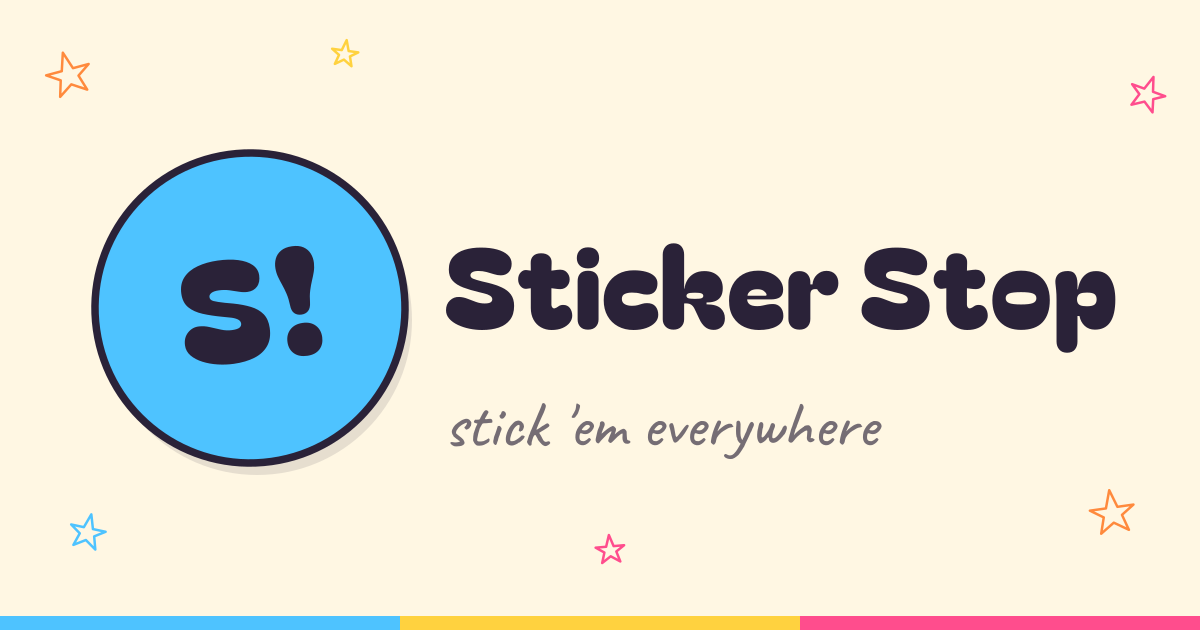
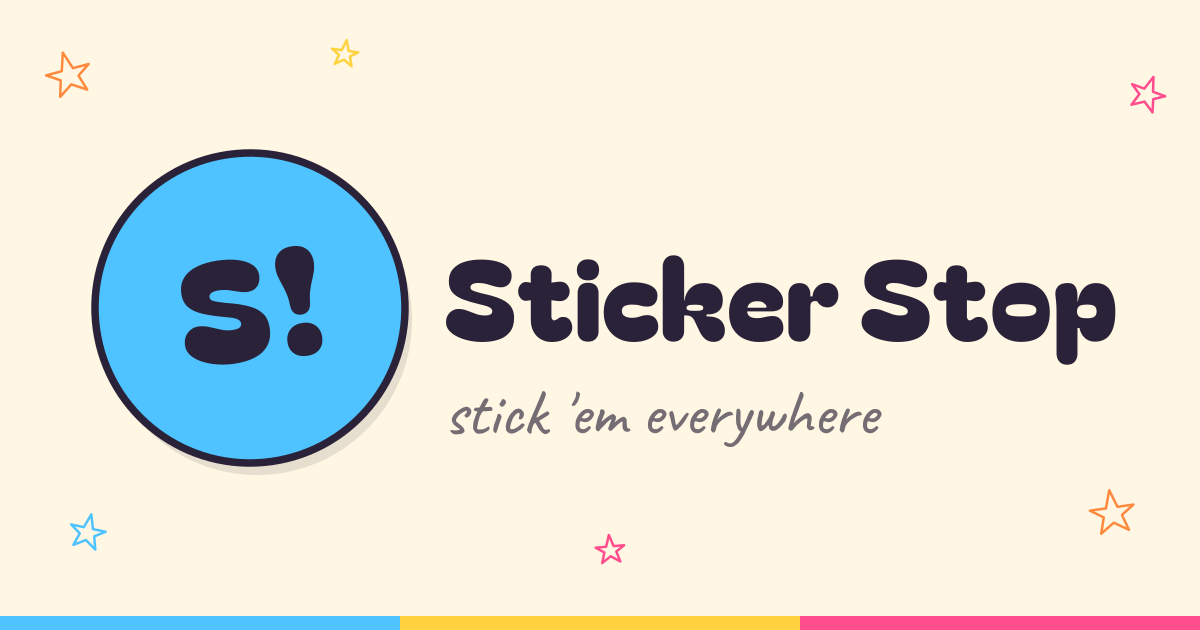
Move tagline even closer to title in OG image
https://claude.ai/code/session_01Y8iosHZQgAJEX6SNKrp2Bk

Changed region(s): [[0.37, 0.3921, 0.925, 0.573], [0.37, 0.6333, 0.74, 0.7238]]

diff --git a/scripts/gen-og.js b/scripts/gen-og.js
@@ -47,7 +47,7 @@ const TEXT_X     = 444;
 const tBB = bagel.getPath('Sticker Stop', 0, 0, TITLE_SZ).getBoundingBox();
 const gBB = caveat.getPath("stick 'em everywhere", 0, 0, TAGLINE_SZ).getBoundingBox();
 
-const LINE_GAP = -36;
+const LINE_GAP = -60;
 const blockH   = (tBB.y2 - tBB.y1) + LINE_GAP + (gBB.y2 - gBB.y1);
 const titleY   = badgeCy - blockH / 2 - tBB.y1;
 const taglineY = titleY + (tBB.y2 - tBB.y1) + LINE_GAP - gBB.y1;
